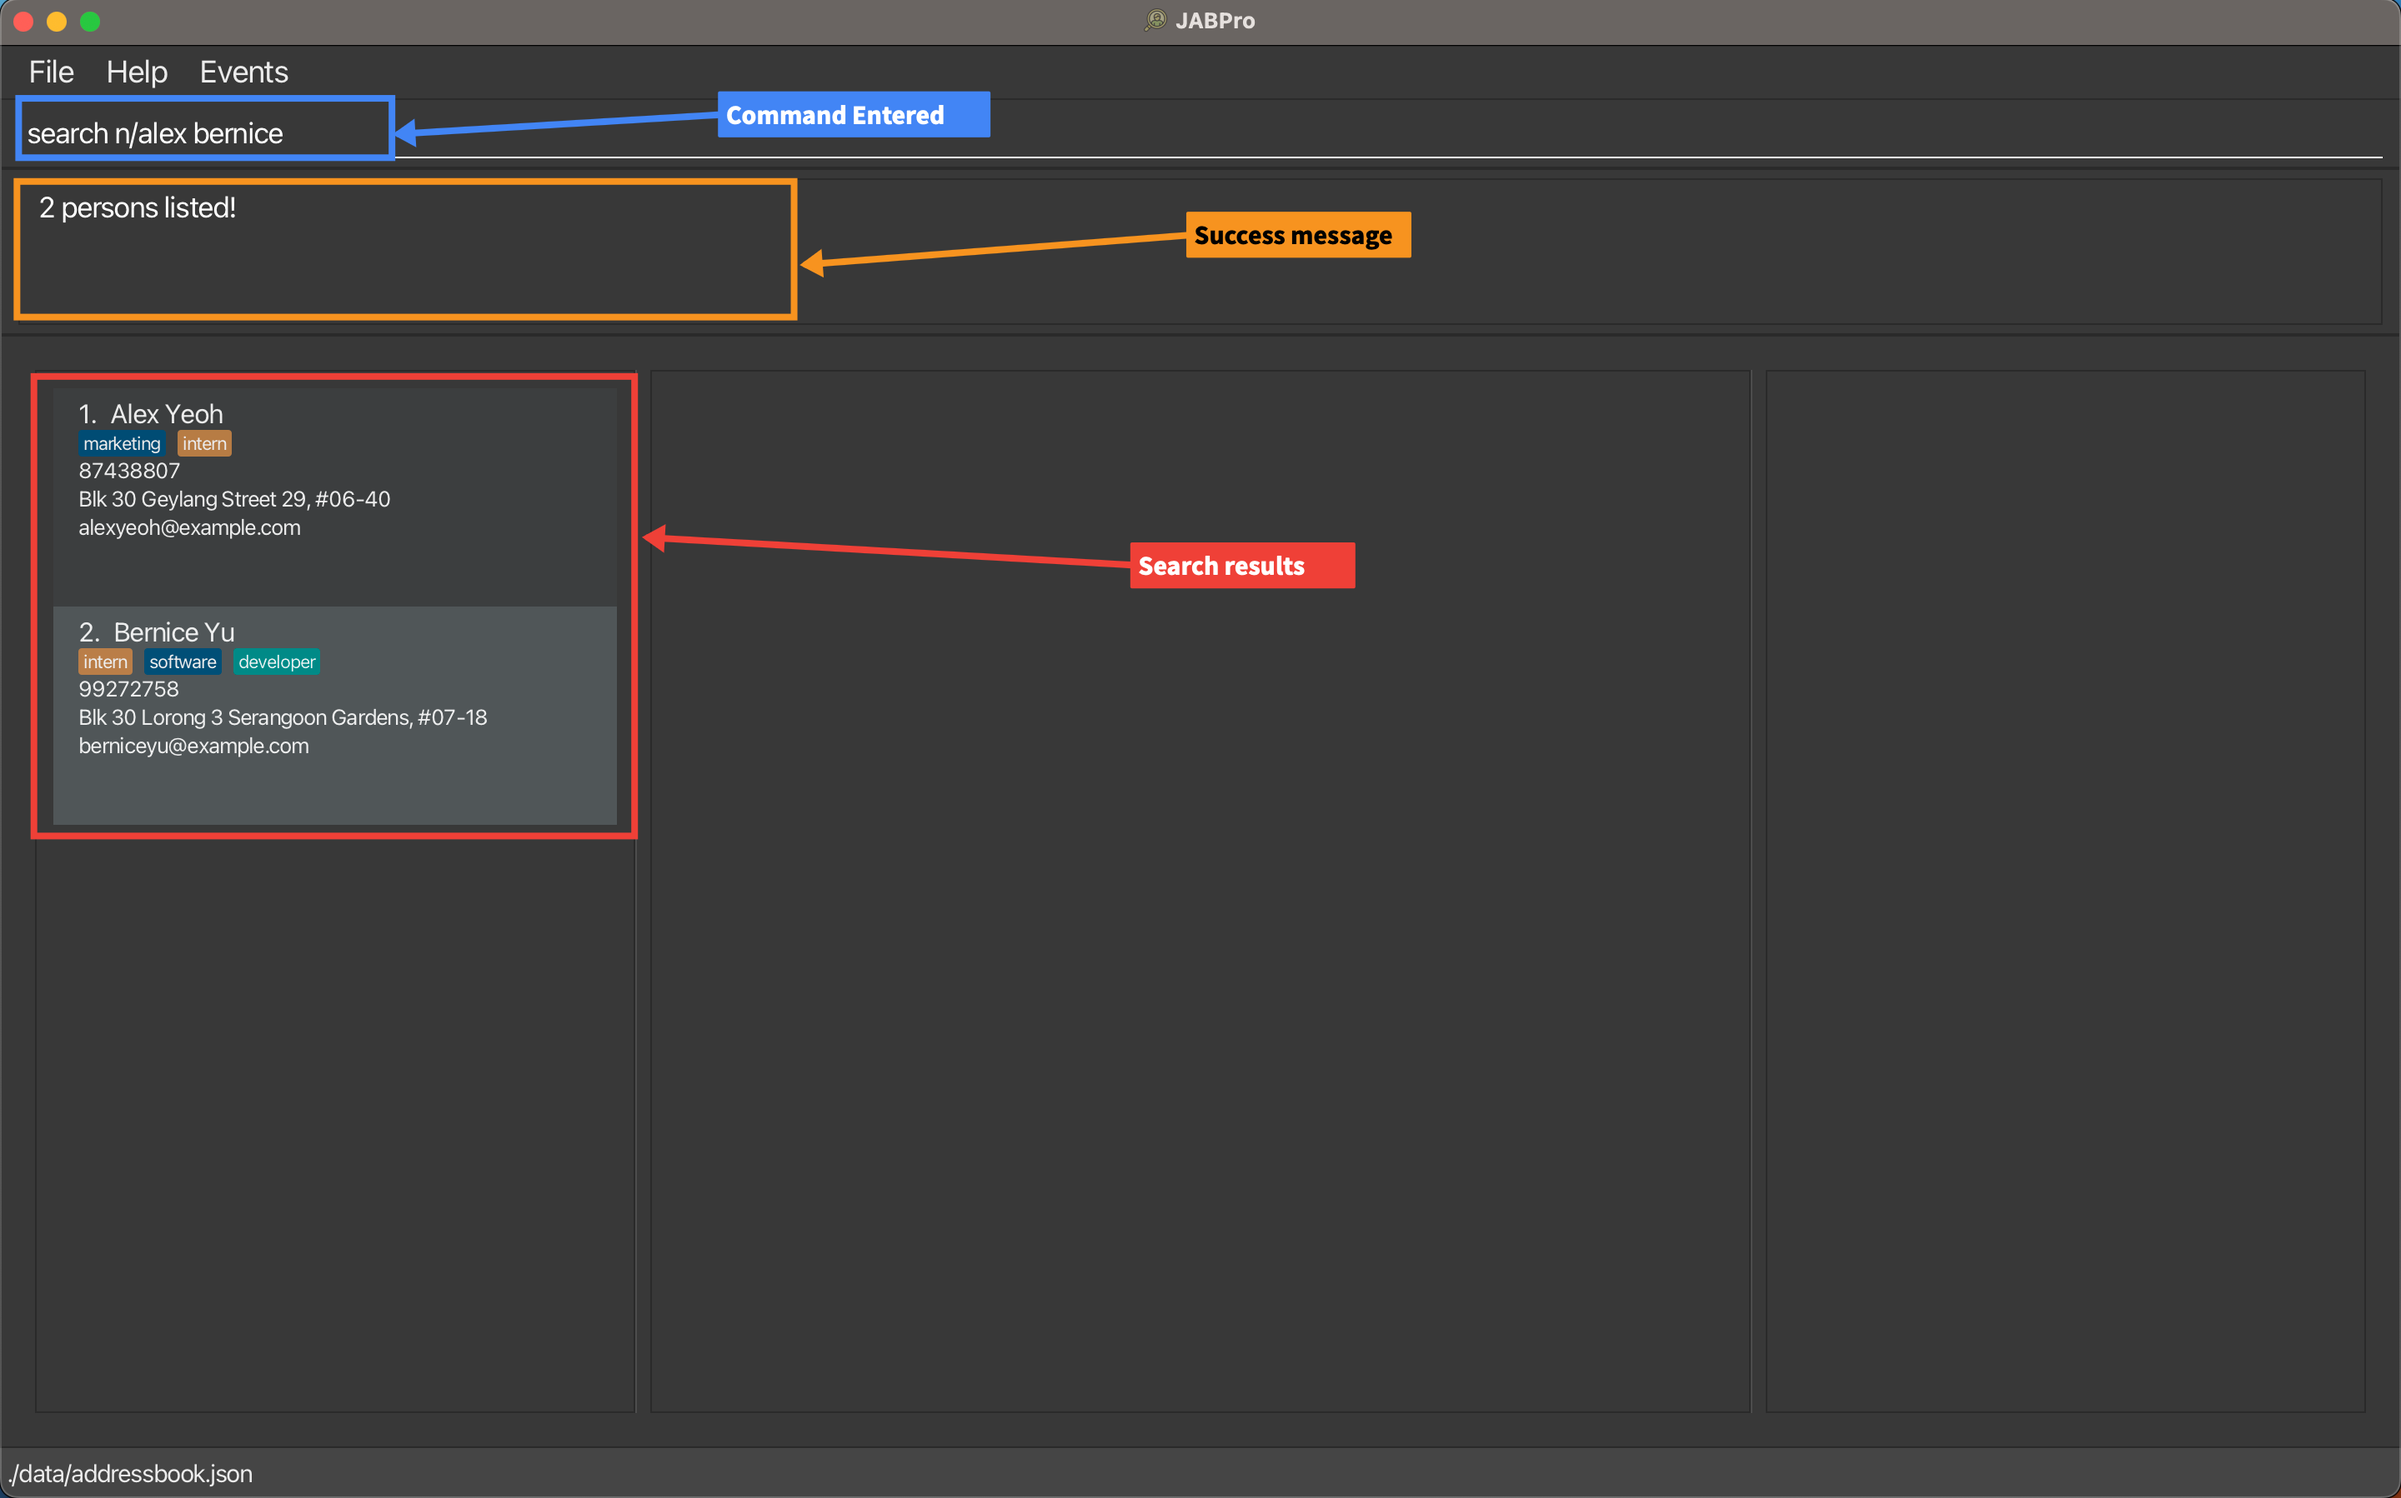
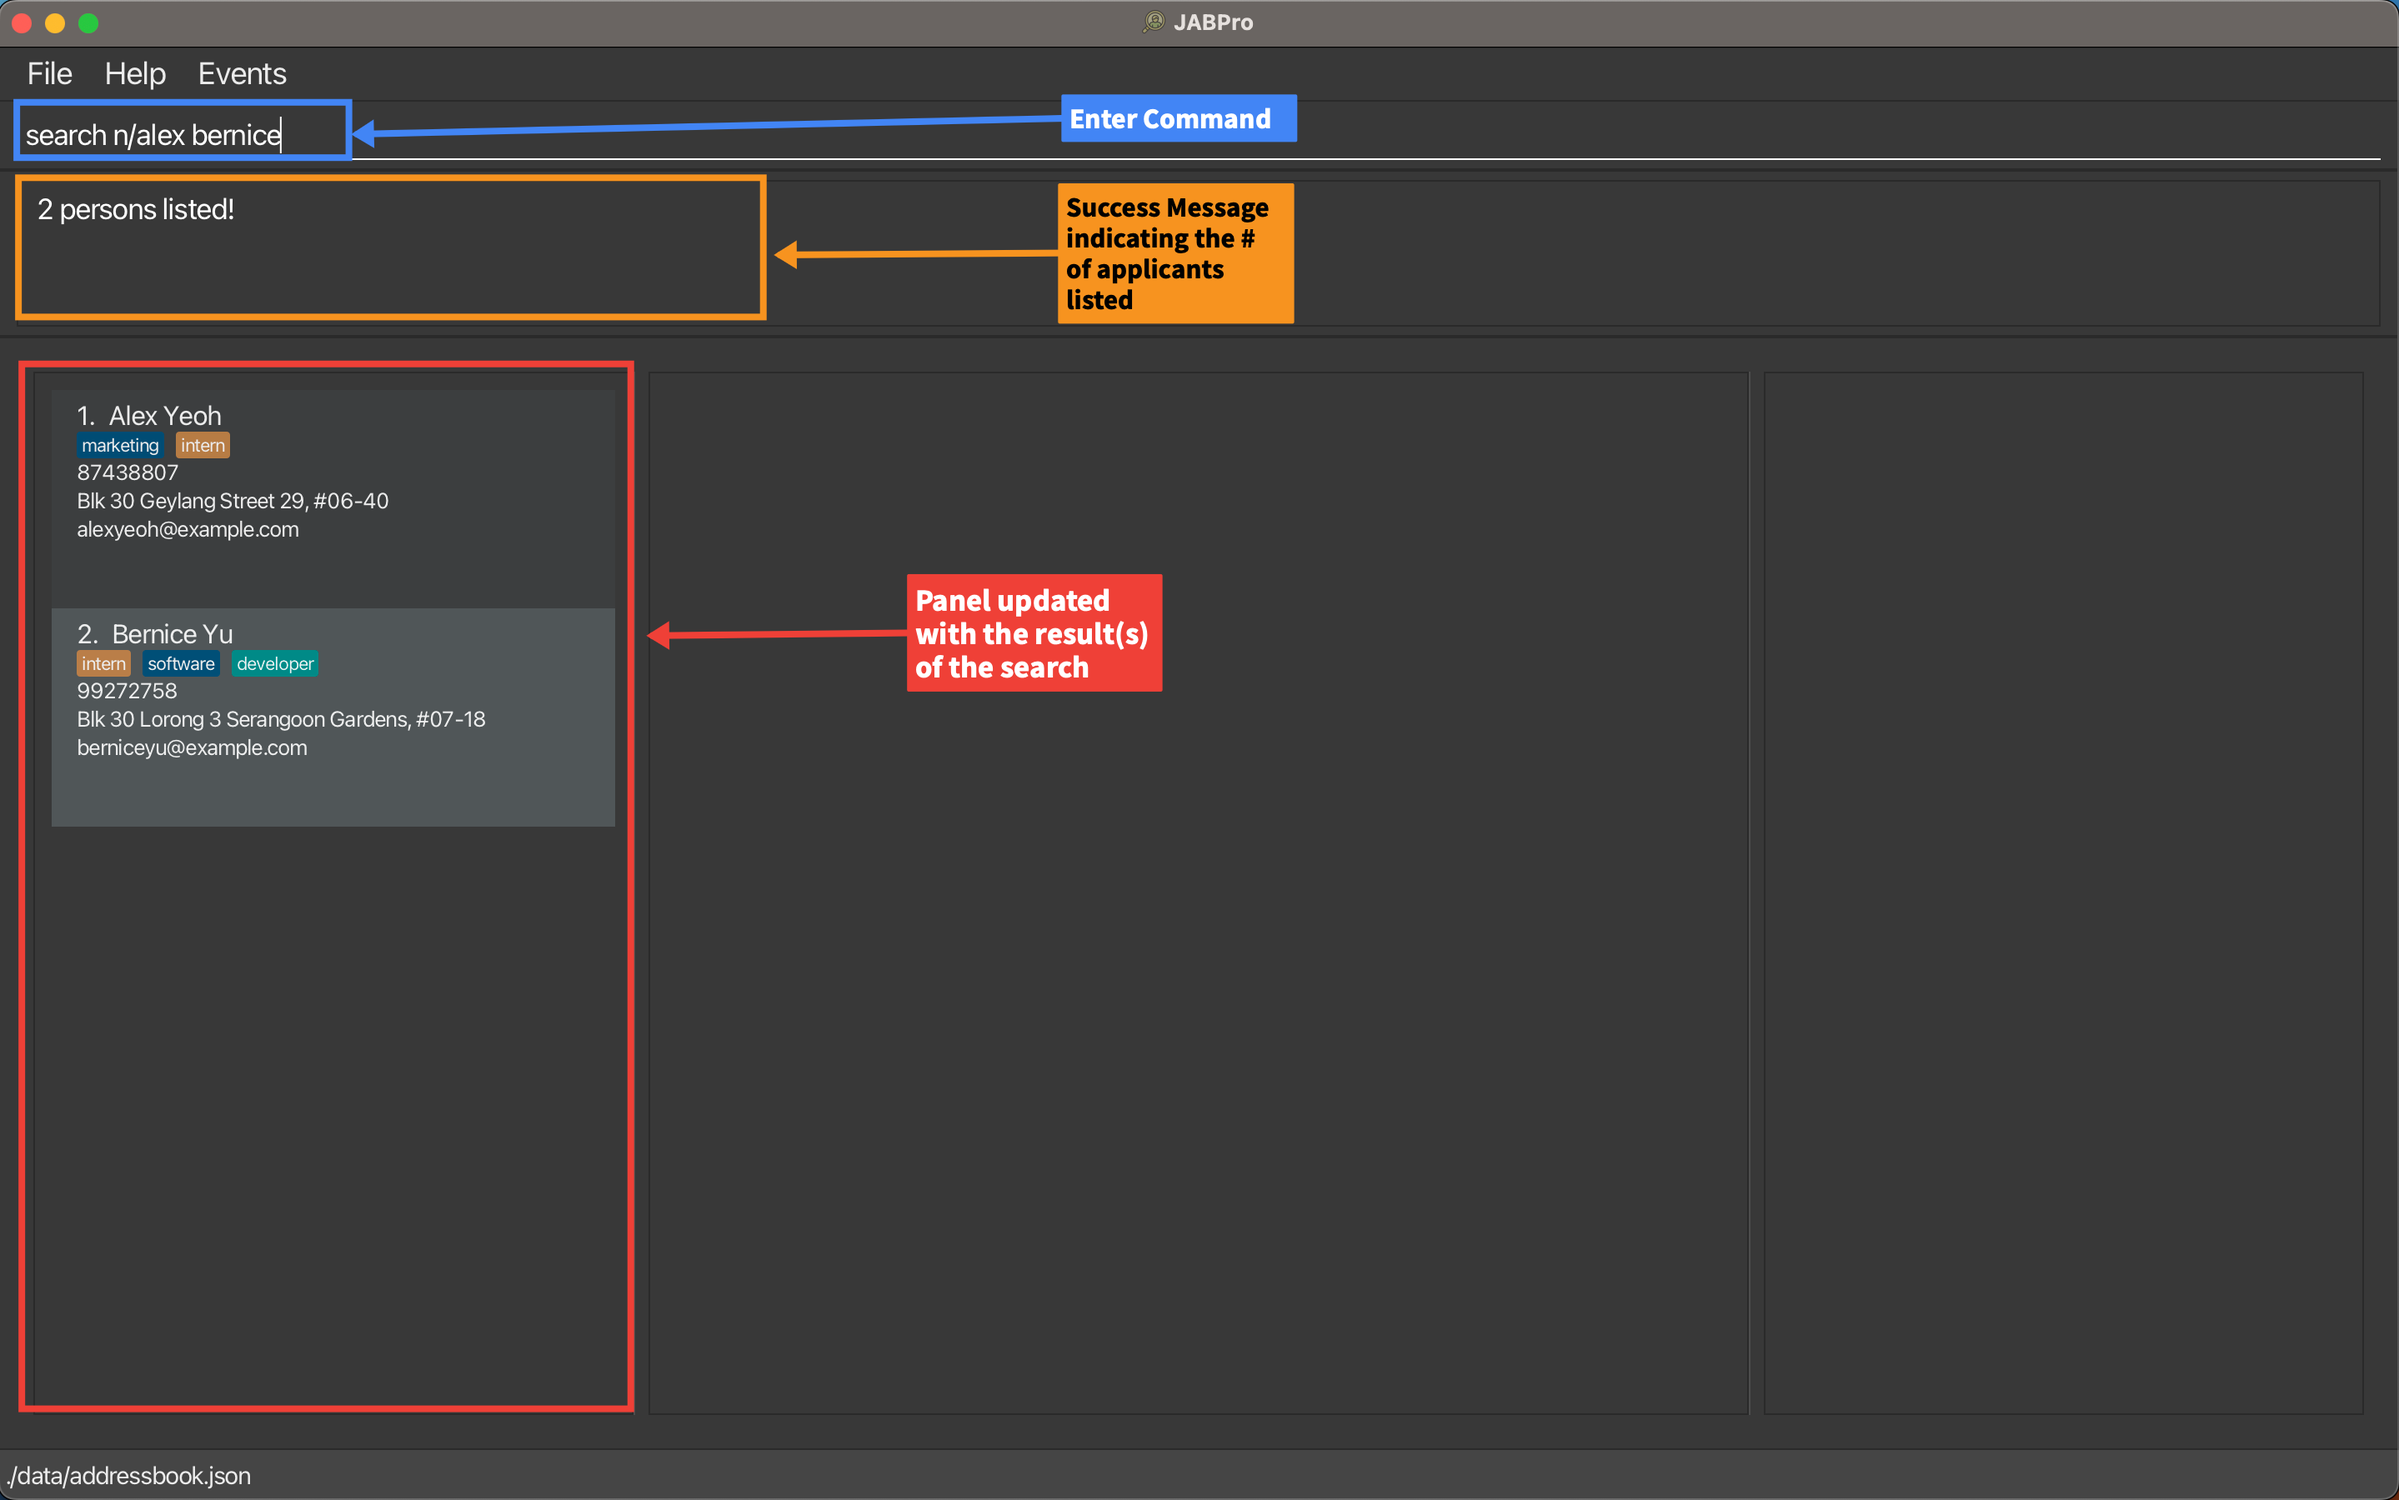
DG: Add create implementation

Changed region(s): [[0.0, 0.1869, 0.5876, 1.0], [0.0, 0.0, 0.5876, 0.218], [0.4639, 0.0, 0.5257, 0.0311]]

diff --git a/docs/DeveloperGuide.md b/docs/DeveloperGuide.md
@@ -299,12 +299,24 @@ This is done by setting the `isView` property to true in the `CommandResult` obj
 
 <puml src="diagrams/ViewActivityDiagram.puml" alt="Event Activity Diagram"></puml>
 
+### Create feature
+
+### Implementation
+
+The `create` feature is implemented using the `CreateTagCommand` class. It extends `Command` and overrides the `execute()` method
+to create tags of specific categories.
+
+To initiate the creation of tags, users utilize the create command with the following format: `create t/CATEGORY TAGNAME`. Each `/t` prefix denotes the start of a new tag definition. If users intend to create multiple tags, they can employ multiple `/t` prefixes in the command, such as `create t/CATEGORY1 TAGNAME t/CATEGORY2 TAGNAME`.
+
+Parsing of the create command's tag parameters is handled by the `parse` method in the `CreateTagCommandParser` class. This method receives a string containing user input and separates it into individual tags based on the /t prefix. The resulting tags are then passed as an array of tag category and name pairs to the constructor of the CreateTagsCommand class.
+
+Finally, the `execute()` method of the `CreateTagCommand` creates a `Tag` object for each element in the array of tag category and name pairs. These newly created tags are then added to the model.
 
 ### Search feature
 
 #### Implementation
 
-The search feature is implemented using the `FindCommand` class. It extends `Command` and overrides the `execute()` method to
+The `search` feature is implemented using the `FindCommand` class. It extends `Command` and overrides the `execute()` method to
 filter users by the specified parameters.
 
 The search parameters from the user input are parsed using the parse method in the `FindCommandParser` class. `FindCommandParser::Parse`
@@ -325,8 +337,7 @@ Given below is an example usage scenario and how the search mechanism behaves at
 
 Step 1. The user launches the application.
 
-Step 2. The user executes `search n/john st/offered t/swe` command to filter candidates having the name john,
-offered status and tagged as swe. 
+Step 2. The user executes `search t/intern` command to filter candidates whose status are offered. 
 
 The following sequence diagram shows how the search operation works:
 
@@ -334,15 +345,15 @@ The following sequence diagram shows how the search operation works:
 
 <puml src="diagrams/SearchSequenceDiagram.puml" width="550" />
 
-Step 3. The user should see the UI below upon entering `search n/john st/interviewed t/friends`.
+Step 3. The user should see the UI below upon entering `search t/intern`.
 
-![View](images/search.png)
+![Search](images/search-dg.png)
 
 The following activity diagram shows summarizes what happens when a user attempts to execute the `search` command.
 
 <puml src="diagrams/SearchActivityDiagram.puml" width="550" />
 
-**Note:** The current implementation of search allows users to search by any of the categories individually or by different combinations of the categories.
+**Note:** The current implementation of search allows users to search by any of the categories individually or by different combinations of the categories e.g. `search n/alex bernice st/offered t/intern`
 It also allows users to specify more than one search parameter for each category e.g. `search n/alex bernice`
 
 ### Set feature
